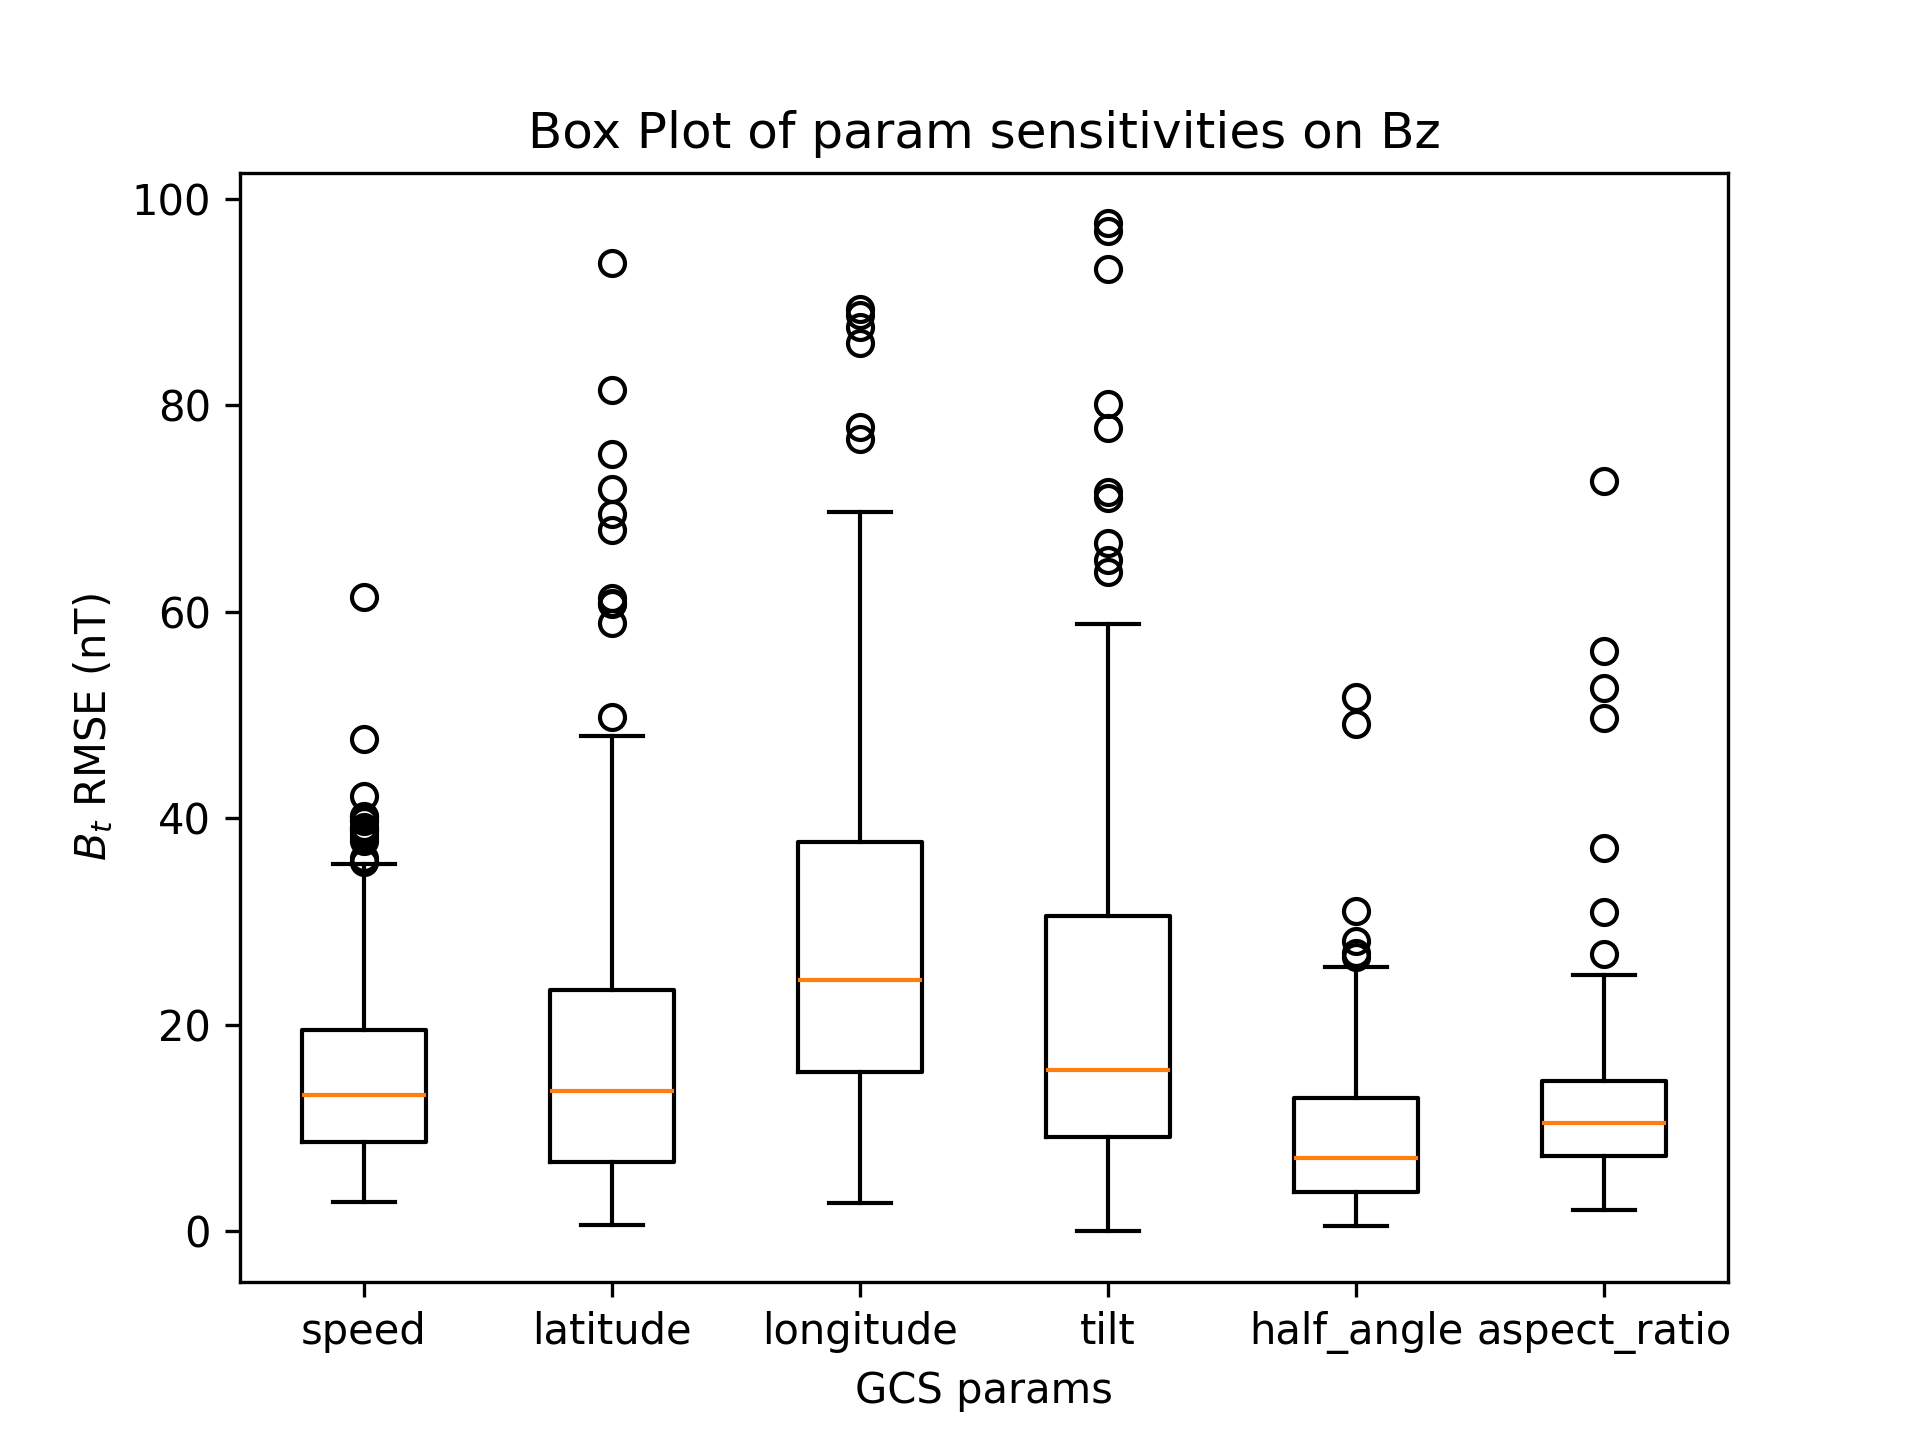
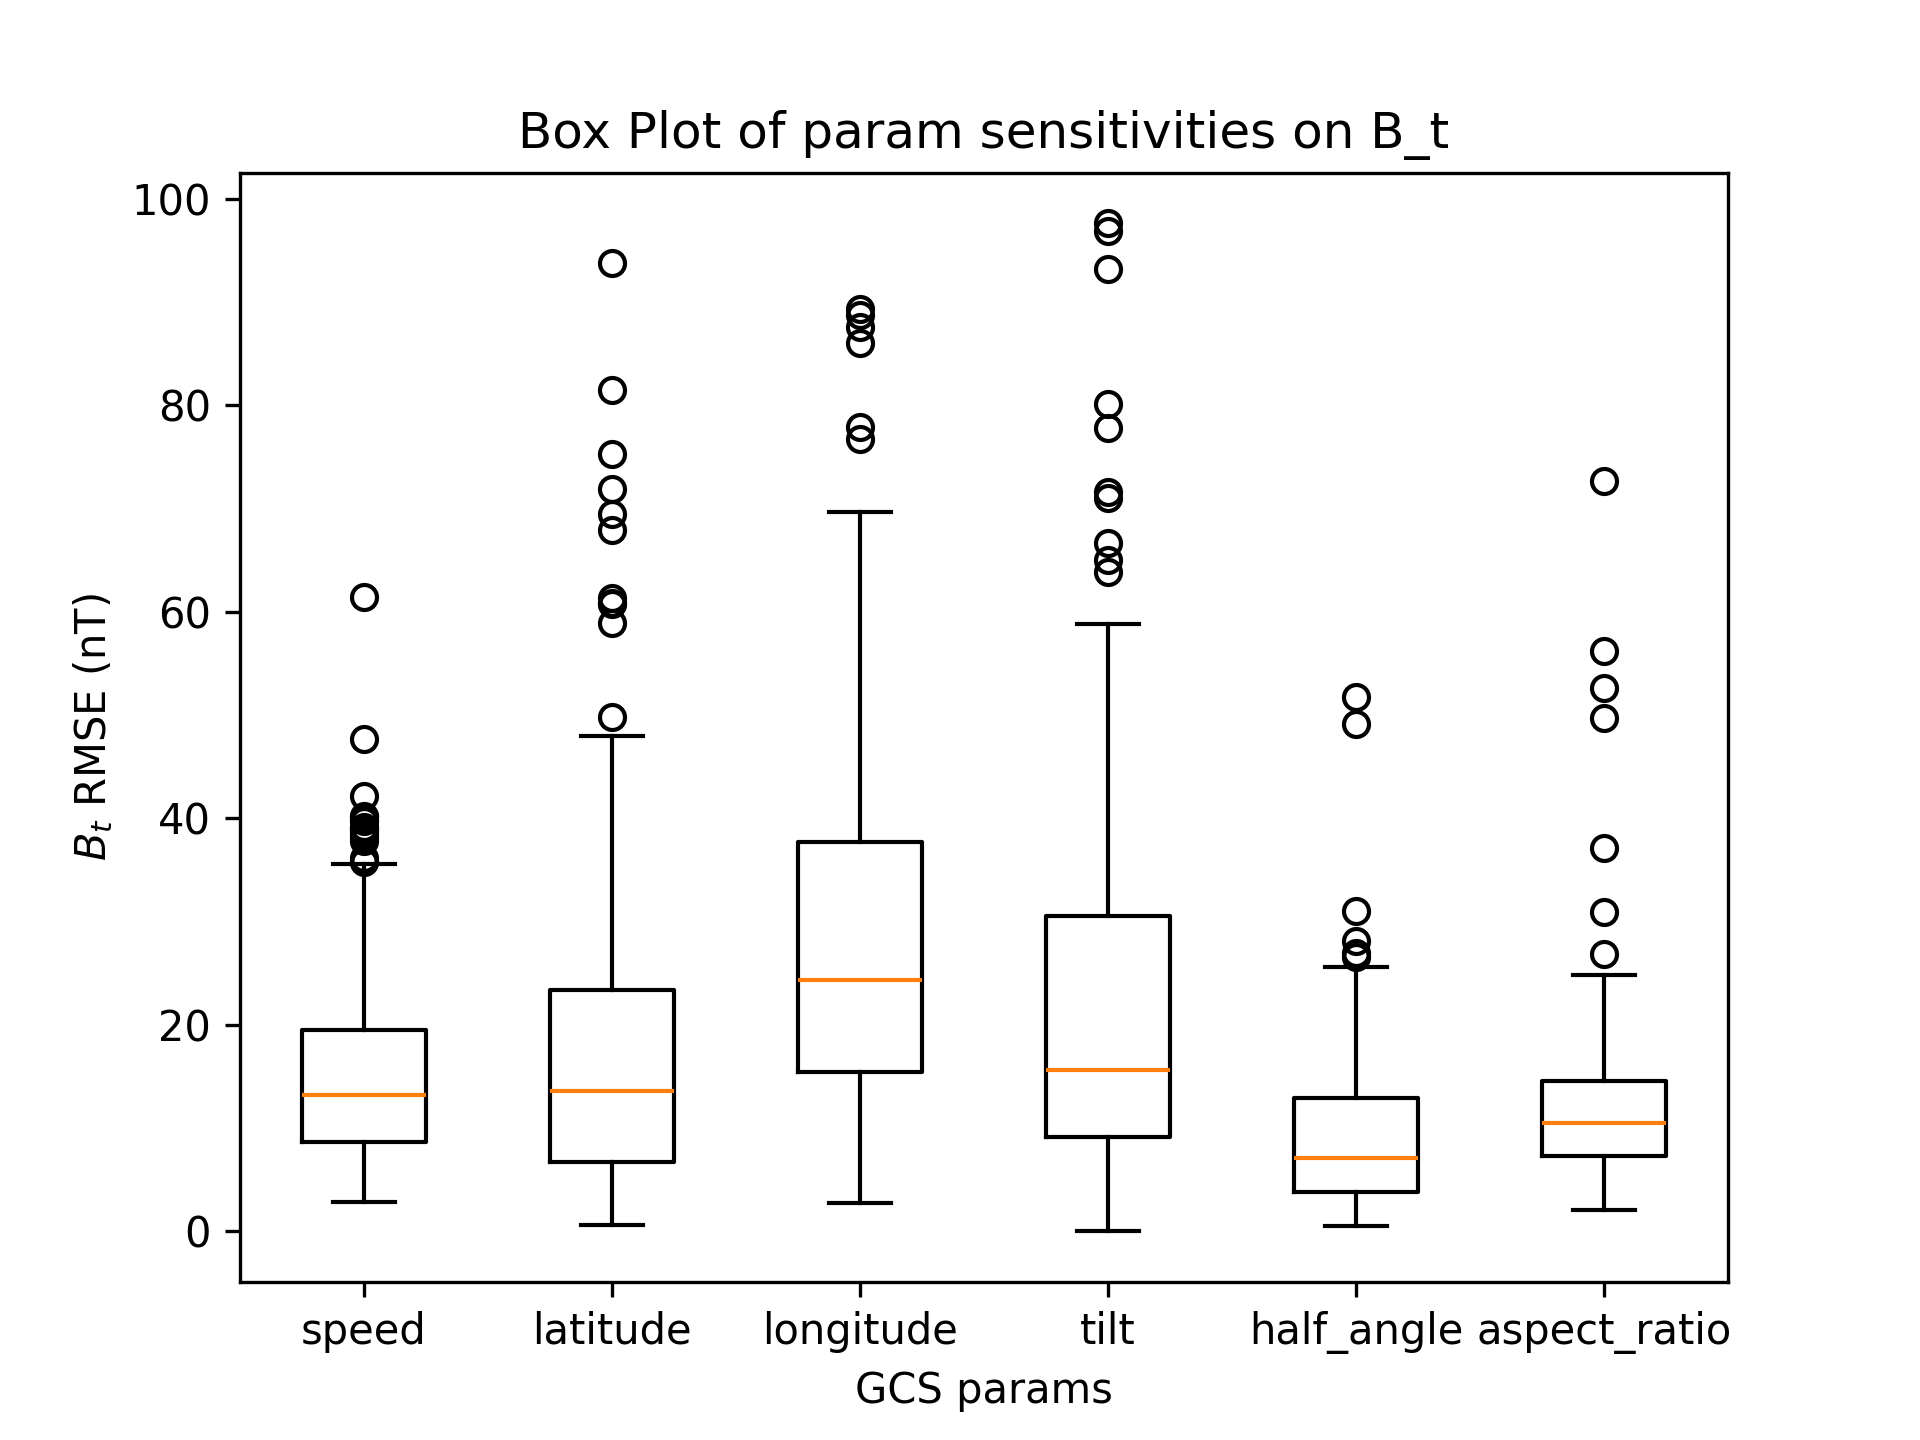
Commit on Aug 30, 2026

Changed region(s): [[0.25, 0.0625, 0.75, 0.125]]

diff --git a/scripts/simulation_post_processing/sensitivity_analysis_B/sensitivity_analysis_B.py b/scripts/simulation_post_processing/sensitivity_analysis_B/sensitivity_analysis_B.py
@@ -21,7 +21,8 @@ pl.Config.set_tbl_rows(-1)      # polars settings to show all the rows
 # Boolean to plot time series
 plot_time_series = True
 
-# place holder for cme duration - I will figure out how to calculate CME end time later
+# place holder for cme duration and arrival
+# will probably need to use different values for this
 n_hours = 15
 den_jump = 0.1
 
@@ -31,6 +32,9 @@ time_series_parameters = {"column_1" : "time", "column_2" : "Distance", "column_
                           "column_7" : "v_y", "column_8" : "v_z", "column_9" : "p", 
                           "column_10" : "B_x", "column_11" : "B_y", "column_12" : "B_z", 
                           "column_13" : "T"}
+
+# time series parameter could be "B_z", "B_t", or "theta". 
+# Where theta is defined as the angle of the magnetic ffield vector with the z axis 
 time_series_parameter = "B_z"
 unit = "nT"
 
@@ -187,9 +191,9 @@ def box_plot(param_dict, time_series_param):
     plt.boxplot(param_dict.values(), tick_labels = param_dict.keys())
 
     # Add details
-    plt.title("Box Plot of param sensitivities on Bz")
+    plt.title(f"Box Plot of param sensitivities on {time_series_parameter}")
     plt.xlabel("GCS params")
-    plt.ylabel(f"${time_series_parameter}$ RMSE (nT)")
+    plt.ylabel(f"${time_series_parameter}$ RMSE ({unit})")
 
     plt.tight_layout
     plt.savefig(f"figures/box_plot_{time_series_param}.png", dpi = 300)
@@ -207,7 +211,7 @@ for cme_num in cme_nums:
         names = ["ensemble_member", "speed", "latitude", "longitude", "tilt", "half_angle", "aspect_ratio"])
     )
 
-    # get the iunique values of each GCS parameter
+    # get the unique values of each GCS parameter
     unique_speeds = gcs_params["speed"].unique().to_list()
     unique_lat = gcs_params["latitude"].unique().to_list()
     unique_lon = gcs_params["longitude"].unique().to_list()
@@ -283,6 +287,18 @@ for cme_num in cme_nums:
                 )
                 df2 = df2.with_columns(
                     (pl.col("B_x")**2 + pl.col("B_y")**2 + pl.col("B_z")**2).sqrt().alias("B_t")
+                )
+
+            elif time_series_parameter == "theta":
+
+                df0 = df0.with_columns(
+                    ((pl.col("B_z")) / (pl.col("B_x")**2 + pl.col("B_y")**2 + pl.col("B_z")**2).sqrt()).arccos().alias("theta")
+                )
+                df1 = df1.with_columns(
+                    ((pl.col("B_z")) / (pl.col("B_x")**2 + pl.col("B_y")**2 + pl.col("B_z")**2).sqrt()).arccos().alias("theta")
+                )
+                df2 = df2.with_columns(
+                    ((pl.col("B_z")) / (pl.col("B_x")**2 + pl.col("B_y")**2 + pl.col("B_z")**2).sqrt()).arccos().alias("theta")
                 )
 
 

diff --git a/scripts/simulation_post_processing/ImprovingCMEs2/cme_arrival_corrections.py b/scripts/simulation_post_processing/ImprovingCMEs2/cme_arrival_corrections.py
@@ -18,7 +18,7 @@ import os
 pl.Config.set_tbl_cols(-1)      # polars settings to show all the columns
 pl.Config.set_tbl_rows(-1)      # polars settings to show all the rows
 
-which_craft = "AB"              # this can be A, B, or AB
+which_craft = "A"              # this can be A, B, or AB
 cme_table = False               # make a .csv file with CME01 features. Most of the time it should be false
 
 address = "../../../Data/ImprovingCMEs2/"

diff --git a/scripts/dissertation/KNN_LR_SVR.py b/scripts/dissertation/KNN_LR_SVR.py
@@ -1,0 +1,8 @@
+# this is the python file in which I will make some demonstration of ML algorithms that I used
+import numpy as np
+import pandas as pd
+import matplotlib.pyplot as plt
+
+# which one to plot, the options are KNN, LR, and SVR
+which_plot = "SVR"
+
